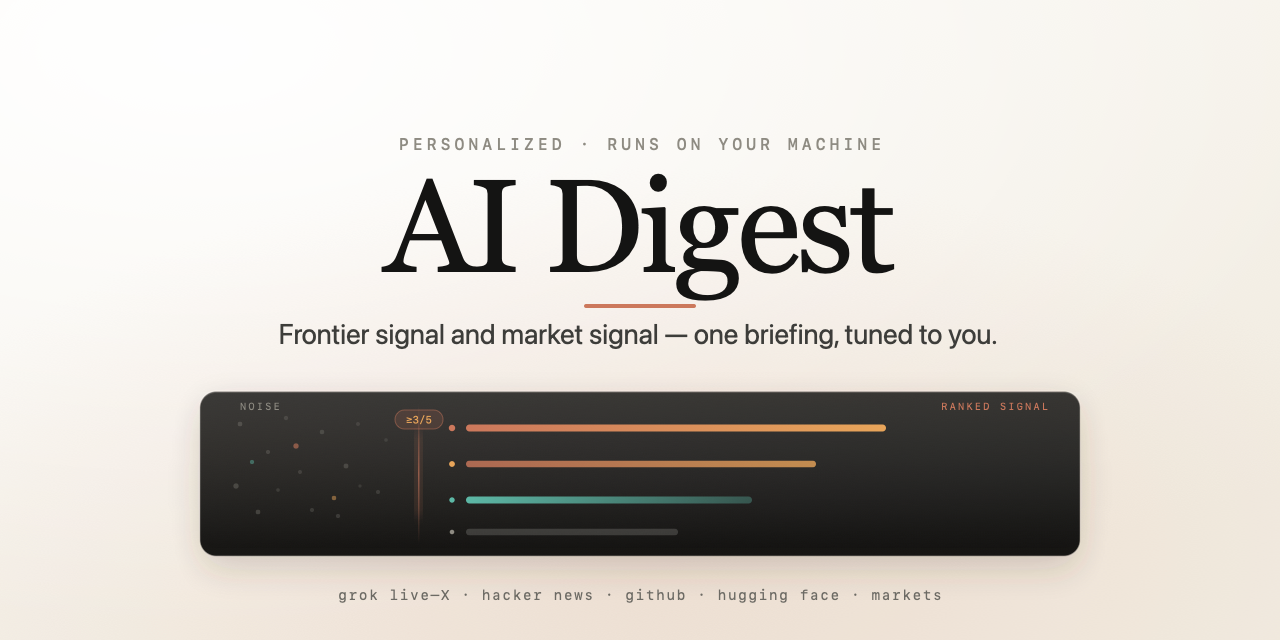
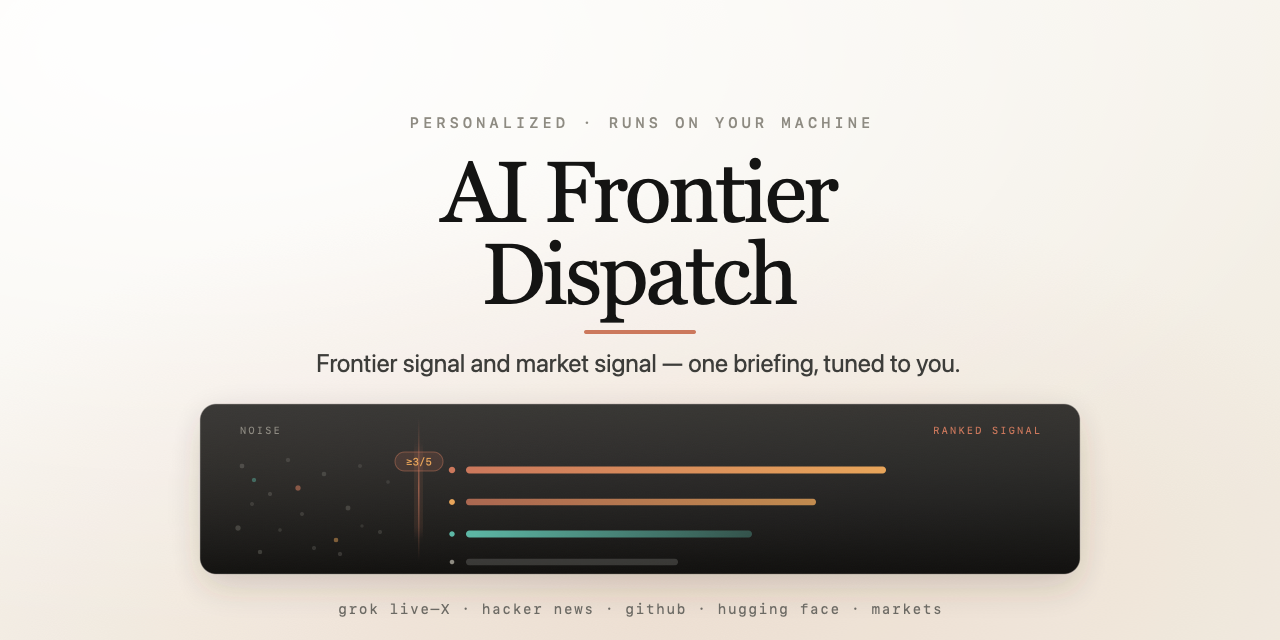
Rename to AI Frontier Dispatch
"AI Digest" collided with khromov/ai-digest (~679 stars, a codebase
packer — unrelated tool), so the name was both generic and already
owned in search. "ai-frontier-dispatch" returns zero results on GitHub.
"Frontier" reuses the Part A section name; "dispatch" is editorial
language that matches the masthead design.

Renamed across: repo, plugin.json, marketplace.json, SKILL.md
frontmatter, README (incl. all install commands), grok-x-pass.py
docstring, digests/, and the banner.

Design:
- Masthead is now a stacked two-line wordmark at 72px — "AI Frontier
  Dispatch" overflows the panel as a single line at the old 104px, and
  stacked reads more like an actual newspaper masthead anyway.
- Regenerated social-preview.png (1280x640) and demo.gif with the new
  name and the new command (/ai-frontier-dispatch).
- Committed docs/social-preview.svg as the source for future regens.

Note: GitHub keeps a permanent redirect from the old repo URL, so links
already shared still resolve.

Changed region(s): [[0.1562, 0.1875, 0.8438, 0.9688]]

diff --git a/scripts/grok-x-pass.py b/scripts/grok-x-pass.py
@@ -4,7 +4,7 @@ grok-x-pass.py — pull a live X (Twitter) read from the xAI Grok API.
 
 Grok is (as of 2026) the only frontier model with live grounding to X posts, so
 this asks it what the AI/tech world is discussing and shipping over a recent
-window. The AI Digest skill folds the answer into its "what builders are doing"
+window. The AI Frontier Dispatch skill folds the answer into its "what builders are doing"
 section — so you get X-native signal without having to live on the feed.
 
 Uses the xAI Agent Tools API (POST /v1/responses) with the web_search and

diff --git a/README.md b/README.md
@@ -1,6 +1,6 @@
-![AI Digest](docs/banner.svg)
+![AI Frontier Dispatch](docs/banner.svg)
 
-# AI Digest
+# AI Frontier Dispatch
 
 [![License: MIT](https://img.shields.io/badge/License-MIT-blue.svg)](LICENSE)
 [![Claude Code Skill](https://img.shields.io/badge/Claude%20Code-skill-8A63D2)](https://code.claude.com/docs/en/skills)
@@ -11,7 +11,7 @@ Most AI newsletters stop at headlines and treat every reader the same. This is a
 
 It leans on **[Grok](https://x.ai)** for a live read of X (the only frontier model grounded on live posts), plus web search, **Hacker News**, and **GitHub / Hugging Face** trending. Nothing is hosted, nothing is shared, and there's no list to join — you run it on your own machine, on your own keys.
 
-![A run of AI Digest](docs/demo.gif)
+![A run of AI Frontier Dispatch](docs/demo.gif)
 
 ### 👉 [**Read a real digest →**](digests/2026-07-28.md)
 
@@ -59,24 +59,24 @@ Deliberately *not* adopted: scheduled CI runs (this needs Claude Code and your k
 **Option A — as a plugin (recommended, no file wrangling):**
 
 ```bash
-/plugin marketplace add bakulbadwal/ai-digest
+/plugin marketplace add bakulbadwal/ai-frontier-dispatch
 ```
 ```bash
-/plugin install ai-digest
+/plugin install ai-frontier-dispatch
 ```
 
-Run those from inside Claude Code. Then invoke it with `/ai-digest`.
+Run those from inside Claude Code. Then invoke it with `/ai-frontier-dispatch`.
 
 **Option B — as a local skill (if you'd rather just clone it):**
 
 ```bash
-git clone https://github.com/bakulbadwal/ai-digest.git ~/.claude/skills/ai-digest
+git clone https://github.com/bakulbadwal/ai-frontier-dispatch.git ~/.claude/skills/ai-frontier-dispatch
 ```
 
 **Option C — try it without installing:**
 
 ```bash
-claude --plugin-dir /path/to/ai-digest
+claude --plugin-dir /path/to/ai-frontier-dispatch
 ```
 
 ---
@@ -106,7 +106,7 @@ Keep that file private (`chmod 600 ~/.claude/.env`). No key? The digest still ru
 
 ## Running it
 
-- **On demand:** `/ai-digest`, or just ask Claude Code to *"run my digest."*
+- **On demand:** `/ai-frontier-dispatch`, or just ask Claude Code to *"run my digest."*
 - **On a schedule:** wire it to a Claude Code scheduled task (e.g. Tue/Thu/Sat mornings). It only needs your machine awake.
 
 The Grok pass also runs standalone:

diff --git a/SKILL.md b/SKILL.md
@@ -1,7 +1,7 @@
 ---
-name: ai-digest
+name: ai-frontier-dispatch
 description: Produce a personalized AI + markets briefing. Use when the user asks for their digest, briefing, roundup, or "what happened this week" in AI/tech/markets. Part A — Frontier & Builders (model releases, what AI-native builders are shipping, a GitHub/Hugging Face scout). Part B — Markets, Deals & Careers (consulting, macro, M&A/VC deal flow, careers, the funded AI stack). Uses a live-X pass via the xAI Grok API plus web search, Hacker News, and trending sweeps.
-when_to_use: Use when the user says "run my digest", "AI digest", "morning briefing", "what did I miss this week", "catch me up on AI", or when a scheduled task invokes it. Also use for a one-off briefing on a custom window.
+when_to_use: Use when the user says "run my digest", "AI Frontier Dispatch", "morning briefing", "what did I miss this week", "catch me up on AI", or when a scheduled task invokes it. Also use for a one-off briefing on a custom window.
 ---
 
 Produce a consolidated AI + markets briefing in **two clearly-separated halves**, so cutting-edge builder signal never gets diluted by business/markets coverage and vice versa. Render a clear visual divider between Part A and Part B. A longer digest is fine — favor substance and real coverage over brevity.
